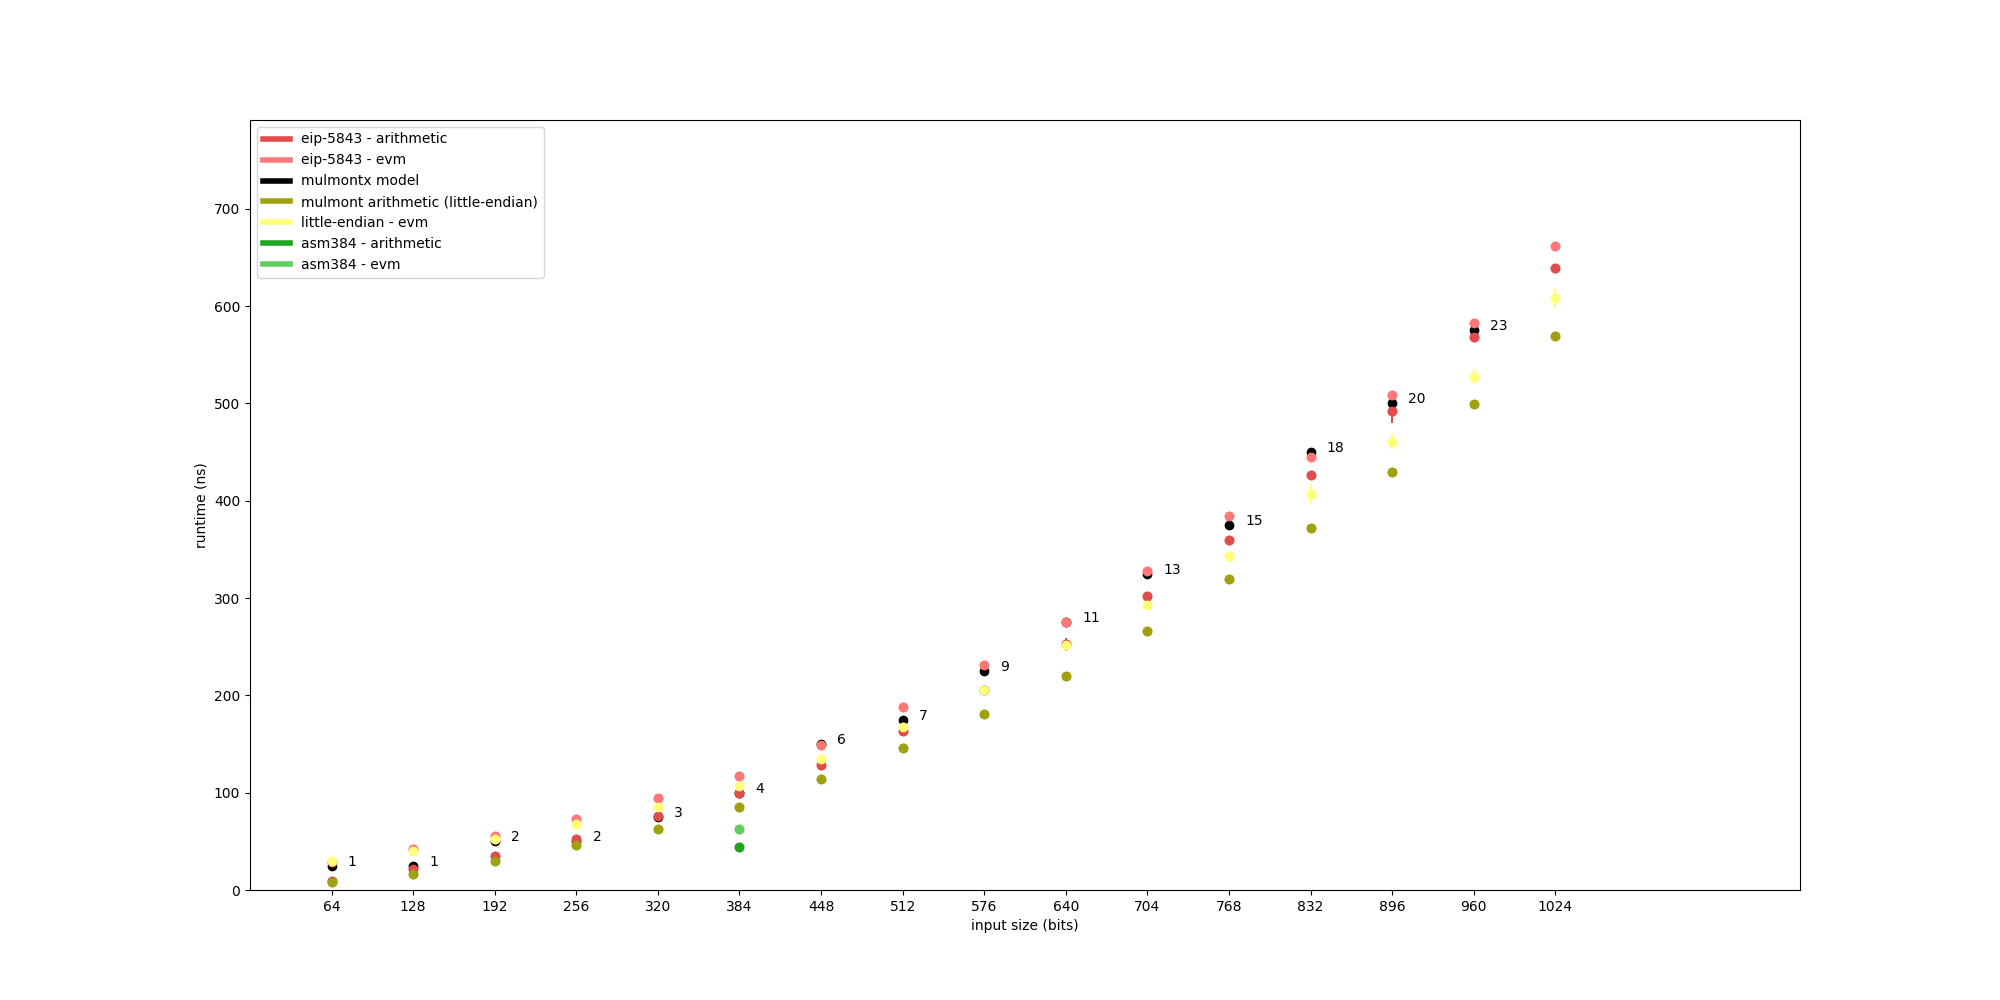
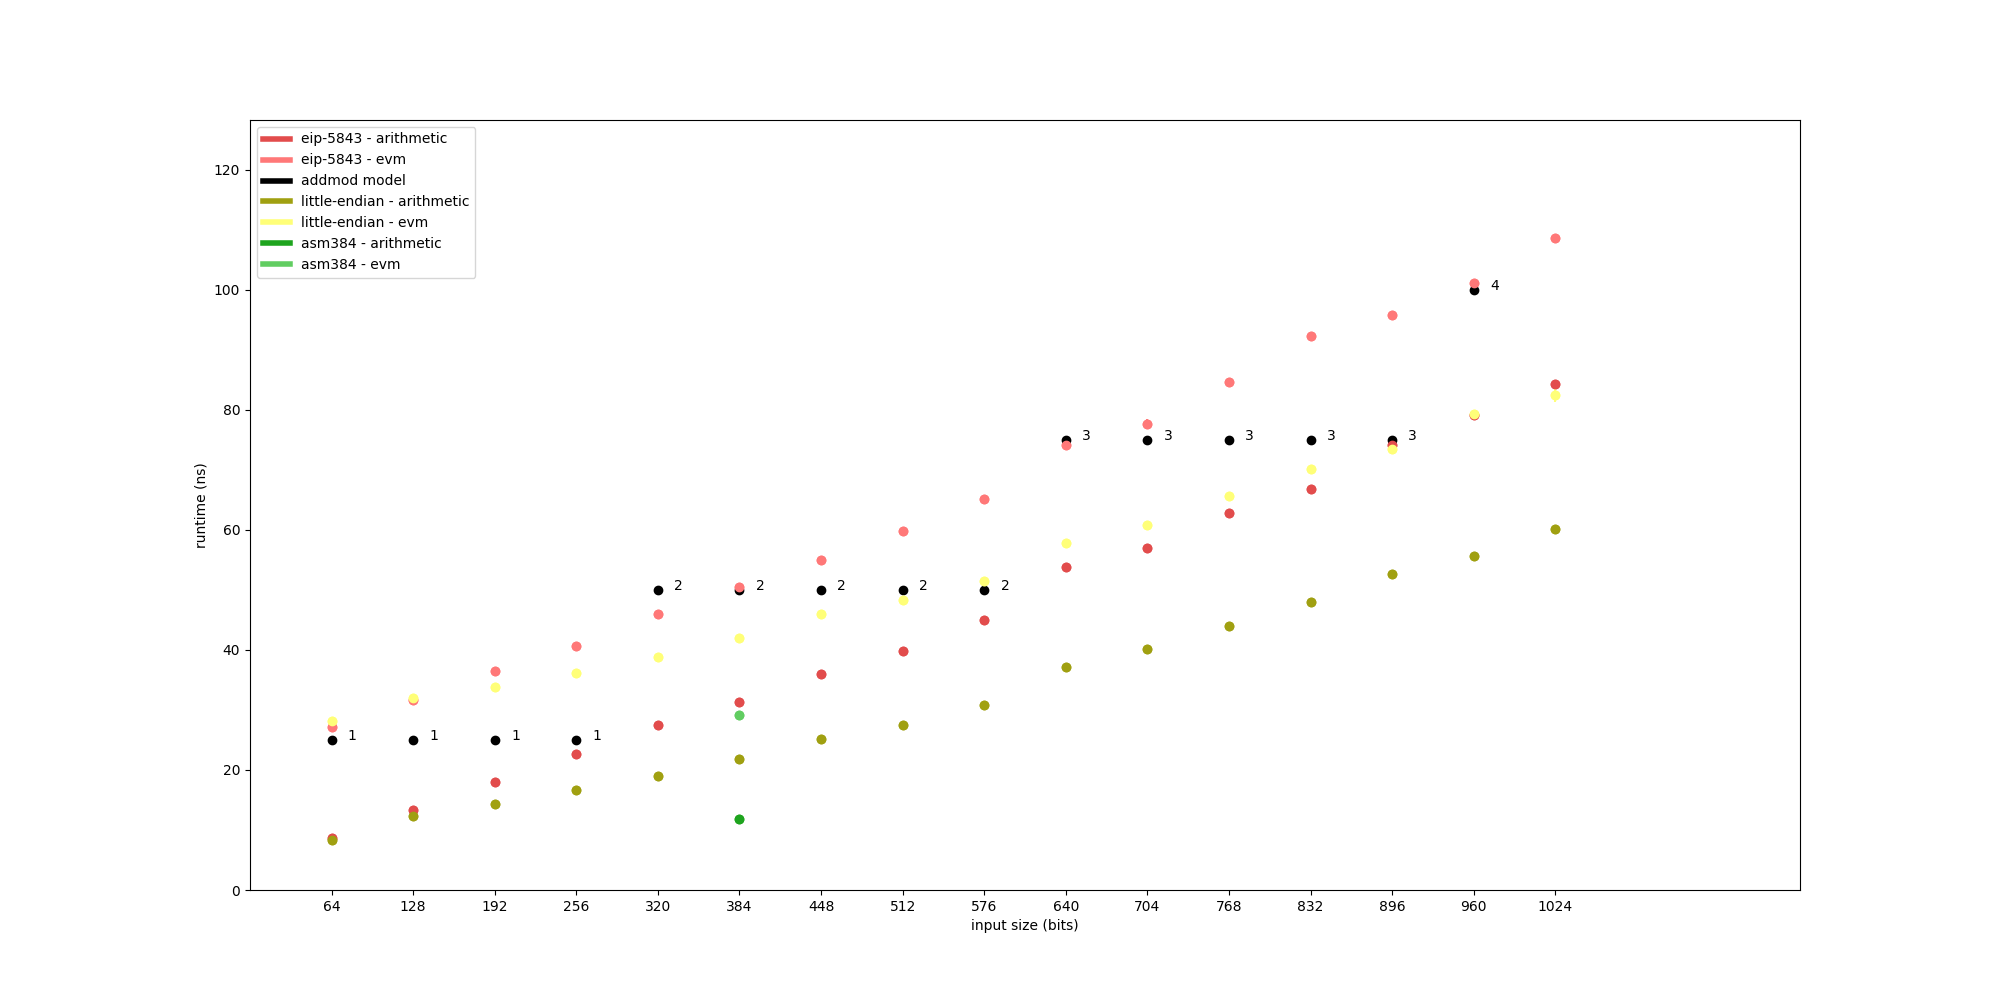
fix charts

diff --git a/plot.py b/plot.py
@@ -415,8 +415,8 @@ submod_evm_le_asm_384bit = prep_data_for_graphing(evm_le_asm_384bit_benchmarks['
 mulmont_benches = go_arith_benchmarks['mulmont']
 mulmont_non_unrolled_data = format_bench_data_for_graphing((1, 64), go_arith_benchmarks['mulmont']['non-unrolled'], 'mulmont arithmetic', go_arith_le_color)
 
-addmod_non_unrolled_data = format_bench_data_for_graphing((1, 64), go_arith_benchmarks['addmod']['non-unrolled'], 'little-endian - arithmetic', go_arith_le_color)
-submod_non_unrolled_data = format_bench_data_for_graphing((1, 64), go_arith_benchmarks['submod']['non-unrolled'], 'little-endian - arithmetic', go_arith_le_color)
+addmod_go_arith_le = format_bench_data_for_graphing((1, 64), go_arith_benchmarks['addmod']['non-unrolled'], 'little-endian - arithmetic', go_arith_le_color)
+submod_go_arith_le = format_bench_data_for_graphing((1, 64), go_arith_benchmarks['submod']['non-unrolled'], 'little-endian - arithmetic', go_arith_le_color)
 
 # setmod_non_unrolled_data = format_bench_data_for_graphing((1, 64), go_arith_benchmarks['setmod']['non-unrolled'], 'setmod-non-unrolled', 'red')
 setmod_arith_be = prep_data_for_graphing(go_arith_benchmarks_be['setmod']['non-unrolled'], "setmod arithmetic - big-endian limbs", setmod_color)
@@ -463,11 +463,11 @@ addmod_model = prep_models_for_graphing([(addmod_eqn, 100000)], 'addmod model', 
 addmod_evmmax = stitch_data(go_arith_benchmarks['addmod']['non-unrolled'], None, 100000, "little-endian - arithmetic", go_arith_le_color)
 submod_evmmax = stitch_data(go_arith_benchmarks['submod']['non-unrolled'], None, 100000, "little-endian - arithmetic", go_arith_le_color)
 
-scatterplot_ns_data("charts/addmodx_all.png", "ADDMODX Benchmarks with Gas Model Labelled", (1, 16), [False, False, True, False, False, False, False], ["o", "o", 'o', 'o', 'o', 'o', "o"], [mulmont_go_arith_be, mulmont_evm_be,  mulmont_model, mulmont_go_arith_le, mulmont_evm_le, mulmont_arith_asm384, mulmont_evm_le_asm_384bit])
+scatterplot_ns_data("charts/addmodx_all.png", "ADDMODX Benchmarks with Gas Model Labelled", (1, 16), [False, False, True, False, False, False, False], ["o", "o", 'o', 'o', 'o', 'o', "o"], [addmod_go_arith_be, addmod_evm_be,  addmod_model, addmod_go_arith_le, addmod_evm_le, addmod_arith_asm384, addmod_evm_le_asm_384bit])
 # scatterplot_ns_data("charts/addmodx_med.png", "ADDMODX Benchmarks", (1, 64), [False, False], ["o", 'o'], [addmod_evmmax, addmod_model])
 # scatterplot_ns_data("charts/addmodx_all.png", "ADDMODX Benchmarks", (1, 100000), [False, False], ["o", '-'], [addmod_evmmax, addmod_model])
 
-scatterplot_ns_data("charts/submodx_all.png", "SUBMODX Benchmarks with Gas Model Labelled", (1, 16), [False, False, False, False, True, False, False], ["o", 'o', 'o', 'o', 'o', 'o', "o"], [mulmont_go_arith_be, mulmont_evm_be,  mulmont_model, mulmont_go_arith_le, mulmont_evm_le, mulmont_arith_asm384, mulmont_evm_le_asm_384bit])
+scatterplot_ns_data("charts/submodx_all.png", "SUBMODX Benchmarks with Gas Model Labelled", (1, 16), [False, False, True, False, False, False, False], ["o", 'o', 'o', 'o', 'o', 'o', "o"], [submod_go_arith_be, submod_evm_be,  addmod_model, submod_go_arith_le, submod_evm_le, submod_arith_asm384, submod_evm_le_asm_384bit])
 # scatterplot_ns_data("charts/submodx_med.png", "SUBMODX Benchmarks", (1, 64), [False, False], ["o", 'o'], [submod_evmmax, addmod_model])
 # scatterplot_ns_data("charts/submodx_all.png", "SUBMODX Benchmarks", (1, 100000), [False, False], ["o", '-'], [submod_evmmax, addmod_model])
 
